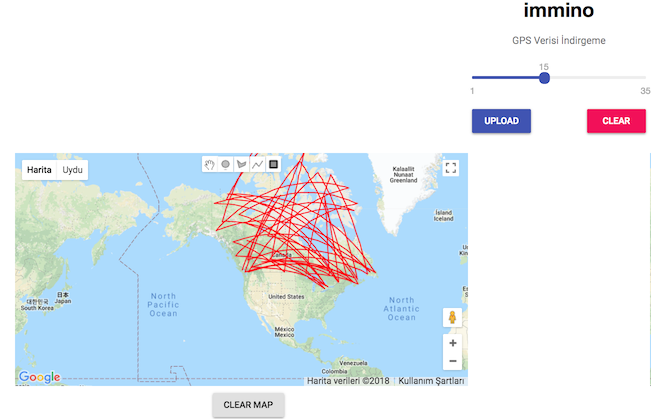
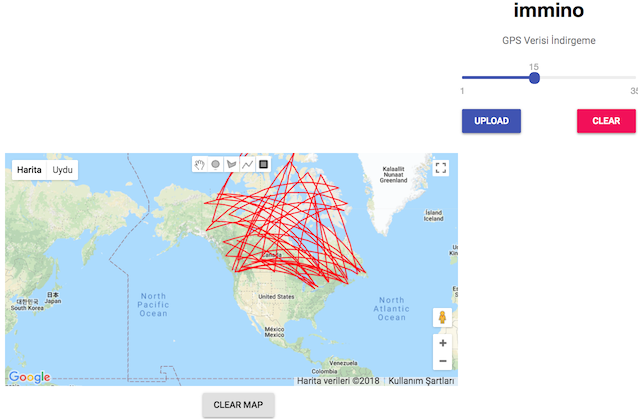
Readme update

diff --git a/README.md b/README.md
@@ -8,7 +8,7 @@ Haraket eden nesnelerin gerçek zamanlı olarak konum bilgilerinin tespit edilm
 
 ![Şekil 1 - Trajectory Verileri](https://github.com/omrumbakitemiz/immino-client/blob/master/docs/images/image1.png)
 
-![Uygulamaya Veri Girişi](https://github.com/omrumbakitemiz/immino-client/blob/master/docs/images/image7.png)
+![Uygulamaya Genel Görünüm](https://github.com/omrumbakitemiz/immino-client/blob/master/docs/images/image4.png)
 
 Bu projede, ham trajectory verileri üzerinde veri indirgeme ön işlemi ve alan sorgusu yapan iki servis sağlayan bir sunucu ve bu sunucuyu kullanan bir istemci geliştirilecektir. İstemci, ham trajectory datasını sunucuya gönderecektir. Sunucu, aldığı datayı istenen servise göre işleyip sonucu istemciye gönderecektir (Şekil 2’ye bakınız).
 
